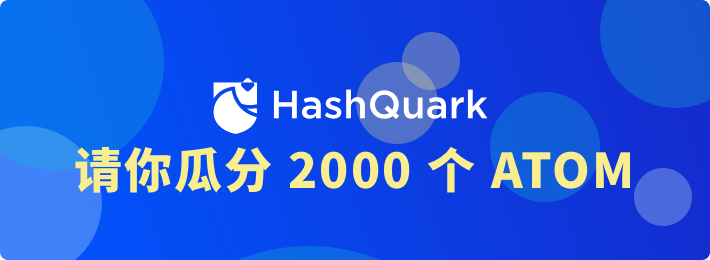
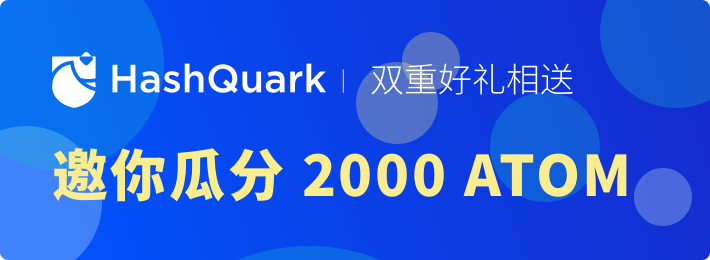
Style: update i18n

Changed region(s): [[0.062, 0.5538, 0.8986, 0.7692], [0.062, 0.1846, 0.8056, 0.5231]]

diff --git a/src/config/campaign.ts b/src/config/campaign.ts
@@ -11,20 +11,23 @@ export default [
         small: require('../assets/campaign/hashquark-zh-small.png')
       },
       en: {
-        big: require('../assets/campaign/hashquark-zh-big.png'),
-        small: require('../assets/campaign/hashquark-zh-small.png')
+        big: require('../assets/campaign/hashquark-en-big.png'),
+        small: require('../assets/campaign/hashquark-en-small.png')
       },
     },
     banner: {
       zh: require('../assets/campaign/hashquark-zh-big.png'),
-      en: require('../assets/campaign/hashquark-zh-big.png'),
+      en: require('../assets/campaign/hashquark-en-big.png'),
     },
     activity: {
       name: {
         zh: '请你瓜分 2000 个 ATOM',
-        en: '请你瓜分 2000 个 ATOM',
+        en: 'You are invited to win 2000 ATOM',
       },
-      time: '2019.05.31 11:00 - 2019.06.13 18:00',
+      time: {
+        zh: '2019.05.31 11:00 ~ 2019.06.14 18:00',
+        en: '2019-05-31 03:00am UTC ~ 2019-06-14 10:00am UTC',
+      },
       url: '/cosmos/campaign/hashquark',
     },
     locales: {
@@ -38,63 +41,63 @@ export default [
         campaign_rule: '活动规则',
         campaign_reward: '奖励派发',
         campaign_state: '活动说明',
+        time: '2019.05.31 11:00 ~ 2019.06.14 18:00',
         rule1: '一重礼',
         rule2: '二重礼',
-        rule1_title: '委托赢空投',
+        rule1_title: '质押赢空投',
         rule2_title: '排位赢 imKey',
-        rule1_desc1: '活动期间，向 Hashquark 节点委托 ATOM，即可参与瓜分 1000 ATOM！',
-        rule1_desc2: '单人奖励 =（已委托代币 / 总委托代币）X 1000 ATOM X 首周奖励 1.2 倍',
-        rule1_remark1: '注：首周奖励为 1.2 倍，先到先得！委托越多，奖励越多！',
-        rule2_desc1: '活动期间，向 Hashquark 节点累计质押 ATOM 数量排名前三的用户可额外获得 TOP 3 惊喜大奖：',
-        rule2_top1: '400 ATOM + 价值 999 元限量 imKey',
-        rule2_top2: '300 ATOM + 价值 999 元限量 imKey',
-        rule2_top3: '100 ATOM + 价值 999 元限量 imKey',
+        rule1_desc1: '活动期间，向 HashQuark 节点委托任意数量 ATOM，即可参与瓜分 1200 ATOM！',
+        rule1_desc2: '单人奖励 =（已委托代币 / 总委托代币）X 1200 ATOM，委托越多，奖励越多！',
+        rule2_desc1: '活动期间，向 HashQuark  节点累计委托 ATOM 数量排名前三的用户可额外获得 TOP 3 惊喜大奖：',
+        rule2_top1: '400 ATOM + 价值 999 元限量版 imKey',
+        rule2_top2: '300 ATOM + 价值 999 元限量版 imKey',
+        rule2_top3: '100 ATOM + 价值 999 元限量版 imKey',
         reward_desc1: '本次活动奖励将在活动结束后统一进行发放，请耐心等待；',
-        reward_desc2: '截止至活动结束，向 Hashquark 质押 ATOM 数量 TOP 3 的用户将于活动结束后收到含有 imKey 兑换码及兑换方式的消息通知；',
-        state_desc1: '1. 活动期间任意时间可质押，次数不限，活动结束（6.13 18:00）前赎回或改票视为无效；',
-        state_desc2: '2. 一重礼「 单个用户可获奖励」公式中时间限制均为活动期间，总委托代币为活动期间通过 imToken 质押给 Hashquark ≥10 ATOM 数量的总和；',
+        reward_desc2: '截止至活动结束，向 HashQuark 委托 ATOM 数量 TOP 3 的用户将于活动结束后收到含有 imKey 兑换码及兑换方式的消息通知；',
+        state_desc1: '1. 活动期间任意时间可委托，次数不限，活动结束（6.14 18:00）前赎回或改票视为无效；',
+        state_desc2: '2. 一重礼「单人奖励」公式中，总委托代币为活动期间通过 imToken 委托给 HashQuark ATOM 数量的总和；',
         delegate_now: '立即委托',
         end_time: '距活动结束',
-        campaign_over: '活动截止至 2019-06-11 18:00 已结束，感谢参与！',
+        campaign_over: '活动截止至 2019-06-14 18:00 已结束，感谢参与！',
         campaign_over_button: '活动结束',
         day: '天',
-        success_delegate: '已成功委托',
+        success_delegate: '已成功委托 $s ATOM',
         success_delegate_desc: '空投将在活动结束后统一发放，感谢支持~',
         confirm: '确认',
       },
       en: {
-        delegated: '已委托（活动期间）',
-        total_delegated: '委托总量',
-        total_delegator: '委托者',
-        top_delegations: '委托排名',
-        campaign_details: '活动详情',
-        campaign_time: '活动时间',
-        campaign_rule: '活动规则',
-        campaign_reward: '奖励派发',
-        campaign_state: '活动说明',
-        rule1: '一重礼',
-        rule2: '二重礼',
-        rule1_title: '委托赢空投',
-        rule2_title: '排位赢 imKey',
-        rule1_desc1: '活动期间，向 Hashquark 节点委托 ATOM，即可参与瓜分 1000 ATOM！',
-        rule1_desc2: '单人奖励 =（已委托代币 / 总委托代币）X 1000 ATOM X 首周奖励 1.2 倍',
-        rule1_remark1: '（注：首周奖励为 1.2 倍，先到先得！委托越多，奖励越多！）',
-        rule2_desc1: '活动期间，向 Hashquark 节点累计质押 ATOM 数量排名前三的用户可额外获得 TOP 3 惊喜大奖：',
-        rule2_top1: '400 ATOM + 价值 999 元限量 imKey',
-        rule2_top2: '300 ATOM + 价值 999 元限量 imKey',
-        rule2_top3: '100 ATOM + 价值 999 元限量 imKey',
-        reward_desc1: '本次活动奖励将在活动结束后统一进行发放，请耐心等待；',
-        reward_desc2: '截止至活动结束，向 Hashquark 质押 ATOM 数量 TOP 3 的用户将于活动结束后收到含有 imKey 兑换码及兑换方式的消息通知；',
-        state_desc1: '1. 活动期间任意时间可质押，次数不限，活动结束（6.13 18:00）前赎回或改票视为无效；',
-        state_desc2: '2. 一重礼「 单个用户可获奖励」公式中时间限制均为活动期间，总委托代币为活动期间通过 imToken 质押给 Hashquark ≥10 ATOM 数量的总和；',
-        delegate_now: '立即委托',
-        end_time: '距活动结束',
-        campaign_over: '活动截止至 2019-06-11 18:00 已结束，感谢参与！',
-        campaign_over_button: '活动结束',
-        day: '天',
-        success_delegate: '已成功委托',
-        success_delegate_desc: '空投将在活动结束后统一发放，感谢支持~',
-        confirm: '确认',
+        delegated: 'Delegated during the event',
+        total_delegated: 'Total Delegated',
+        total_delegator: 'Delegators',
+        top_delegations: 'Ranking',
+        campaign_details: 'Event Details',
+        campaign_time: 'Event Time',
+        campaign_rule: 'Event Rules',
+        campaign_reward: 'Award Details',
+        campaign_state: 'Event Description',
+        time: '2019-05-31 03:00am UTC ~ 2019-06-14 10:00am UTC',
+        rule1: 'Bonus 1',
+        rule2: 'Bonus 2',
+        rule1_title: 'A Good Time for a Stake!',
+        rule2_title: 'The Key to imKey',
+        rule1_desc1: 'User that delegate ATOM to HashQuark during the event receive your share of 1200 ATOM. The more you delegate, the higher your reward.',
+        rule1_desc2: 'Your reward = (your staked tokens / total staked tokens) x 1200 ATOM.',
+        rule2_desc1: 'The top 3 stakers during the event, reveice another bonus + the imKey bluetooth hardware wallet (worth $150):',
+        rule2_top1: '400 ATOM + limited imKey',
+        rule2_top2: '300 ATOM + limited imKey',
+        rule2_top3: '100 ATOM + limited imKey',
+        reward_desc1: 'Rewards for this event will be distributed shortly after the end of the activity. Stay tuned!',
+        reward_desc2: 'At the end of the event, the user whos staked ATOM is one of the TOP 3, will receive a message notification containing an imKey purchase code and purchase method;',
+        state_desc1: '1. Staking (and adding more Stake) can be made at any time during the activity, with no limit to the number of times. Withdrawel or change of tickets before the end of the activity (14th June, 11:00am UTC) shall be deemed invalid;',
+        state_desc2: '2. The ATOMs a single user will be rewarded with are calculated by the amount staked by the user devided by the total amount staked by all users to Hashquark through imToken during the activity period;',
+        delegate_now: 'Delegate now',
+        end_time: 'Time until event ends',
+        campaign_over: 'The event ended at 14th June, 11:00am UTC. Thank you for your participation.',
+        campaign_over_button: 'Event ended.',
+        day: 'day',
+        success_delegate: '$s ATOM has been successfully delegated.',
+        success_delegate_desc: 'Airdrops will be distributed after the event. Stay tuned!',
+        confirm: 'Confirm',
       },
     },
   }

diff --git a/src/components/campaigns/hashquark/index.tsx b/src/components/campaigns/hashquark/index.tsx
@@ -23,8 +23,18 @@ interface Props {
   account: any
 }
 
-const t = (str) => {
-  return hashquark.locales[locale][str] || str
+const t = (str, ...args) => {
+  let value = hashquark.locales[locale][str] || str
+  if (args.length) {
+    let i = 0
+    value = value.replace(/\$s/ig, () => {
+      const o = args[i] || ''
+      i++
+      return o
+    })
+  }
+
+  return value
 }
 
 const formatAddress = (address: string) => {
@@ -89,7 +99,7 @@ class HashQuark extends Component<Props, any> {
           <ValidatorCard validator={validator} pool={pool} isHideBadge={true} />
           {this.renderInfoCard()}
           {this.renderDivider()}
-          <Detail t={t} campaign={hashquark} />
+          <Detail t={t} />
           <Footer
             t={t}
             time={info.end_time}
@@ -167,7 +177,7 @@ class HashQuark extends Component<Props, any> {
         <div className="modal-success">
           <img src={require('../../../assets/campaign/delegate-success.png')} />
 
-          <p className="title">{`${t('success_delegate')} ${tx.amount} ATOM`}</p>
+          <p className="title">{`${t('success_delegate', tx.amount)}`}</p>
           <p className="desc">{t('success_delegate_desc')}</p>
           <button
             className="confirm-button"

diff --git a/src/components/campaigns/detail.tsx b/src/components/campaigns/detail.tsx
@@ -2,12 +2,12 @@ import React from 'react'
 import './index.scss'
 
 
-export default ({ t, campaign }) => {
+export default ({ t }) => {
   return (
     <div className="details">
       <div>
         <p className="block-title">{t('campaign_time')}</p>
-        <p>{campaign.time}</p>
+        <p>{t('time')}</p>
       </div>
 
       <div>
@@ -19,11 +19,9 @@ export default ({ t, campaign }) => {
           <h2>{t('rule1_title')}</h2>
           <p>{t('rule1_desc1')}</p>
           <p>{t('rule1_desc2')}</p>
-          <p className="remark">{t('rule1_remark1')}</p>
         </div>
 
-
-        <div>
+        <div style={{ marginTop: 30 }}>
           <div className="rule-symbol" />
           <p className="rule-title">{t('rule2')}</p>
           <h2>{t('rule2_title')}</h2>

diff --git a/src/pages/validatorDetail/index.tsx b/src/pages/validatorDetail/index.tsx
@@ -192,7 +192,7 @@ class Page extends Component<Props, any> {
             <p>
               <span>{activity.name[locale]}</span>
             </p>
-            <span className="date">{activity.time}</span>
+            <span className="date">{activity.time[locale]}</span>
           </div>
           <img src={Arrow} />
         </a>

diff --git a/src/components/campaigns/index.scss b/src/components/campaigns/index.scss
@@ -131,7 +131,7 @@
     height: 60px;
     -webkit-backdrop-filter: blur(9.8px);
     backdrop-filter: blur(9.8px);
-    background-color: #0f3da7;
+    background: rgba($color: #0f3da7, $alpha: 0.9);
     padding: 0 16px;
     box-sizing: border-box;
     color: white;
